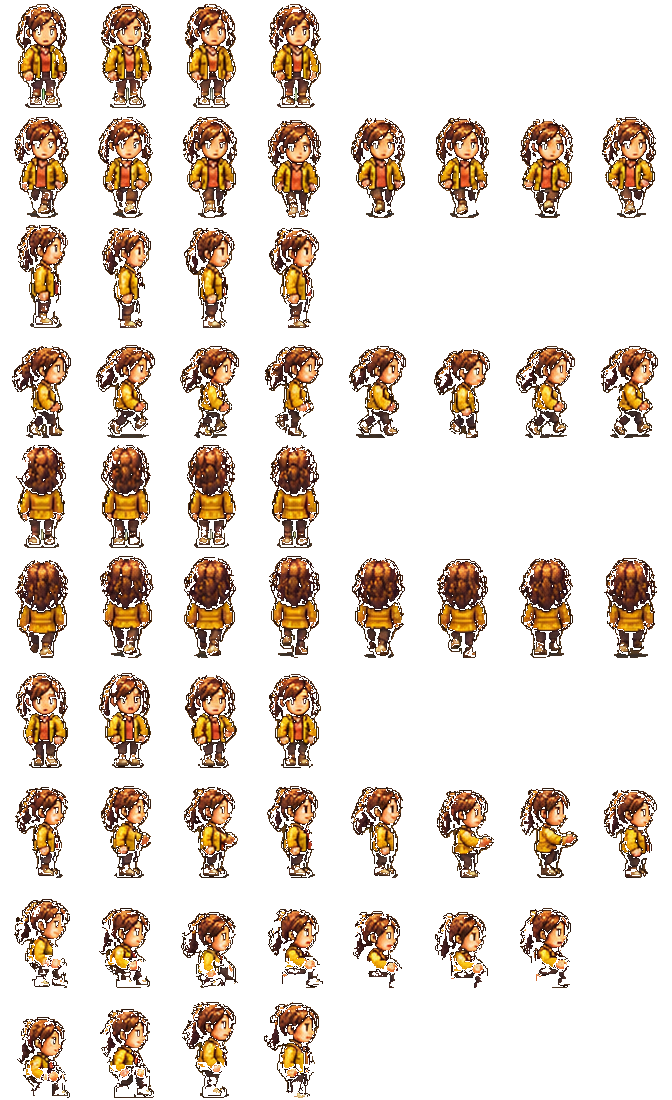
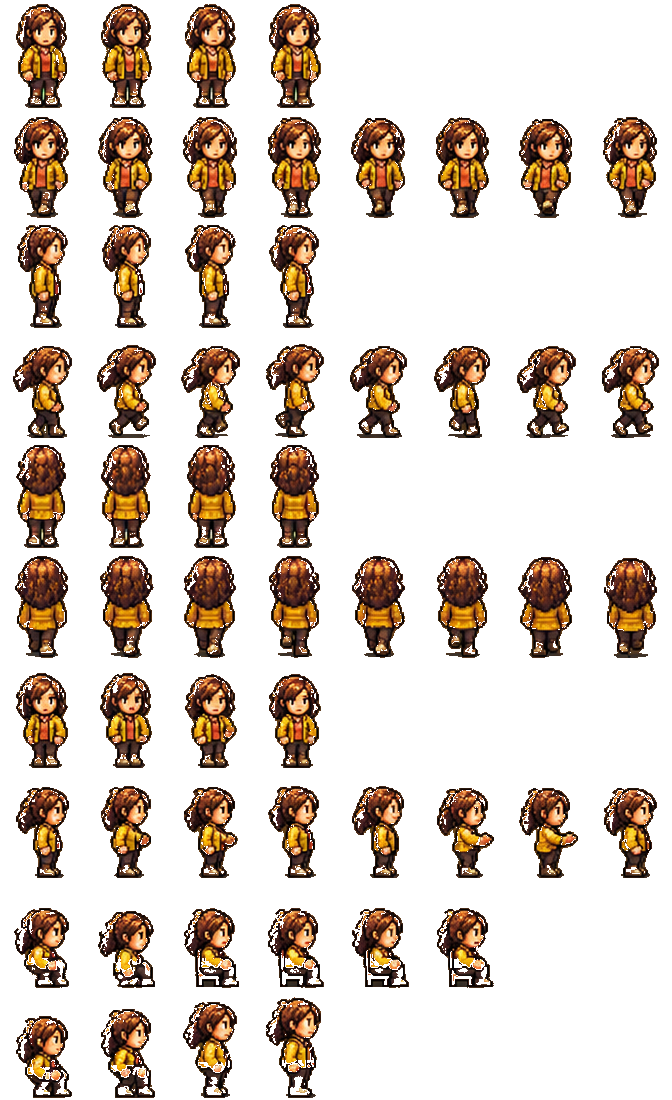
fix(art): V5 NPCs keep their dark outline, hair and trousers (Helena holes and grass show-through)
alpha_of dropped every near-black pixel, punching holes in all six V5 sheets
(worst on Helena). Dark pixels are now removed only when connected to the
crop border (board remains). Sheets rebuilt; the runtime V5 block keeps the
hand-tuned idle/facing edits of 4404a8a and only takes the new frame sizes,
anchors and scales; frame counts never grow (Raul stand 4->3, Celina sit 7->6
because one candidate frame no longer classifies). demo-smoke, browser-smoke,
v5-chromium and playtest-full PASS.

diff --git a/index.html b/index.html
@@ -314,7 +314,7 @@ var SCALE=(()=>{const base=42;let f=1.4;try{const q=+new URLSearchParams(locatio
   creature:{dog:.4,insect:.25,crawler:.4,crow:.3,larva:.25,drone:.55,echo:1.05,humanoid:1.0,bigHumanoid:1.3,mutant:1.6,guardian:1.9,colossus:3.2},
   props:{'bench':.9,'bench-b':.9,'bin':.82,'hydrant':.85,'barrel':.9,'barrel-b':.9,'crate-a':.9,'crate-b':.9},
   furniture:{benchSeat:.28,benchBack:.52,chairSeat:.28,table:.45,counter:.58,door:1.22,bed:1.2}}})();
-/*SCALE:END*//*V5:BEGIN*/var V5={"lia":{"fw":97,"fh":109,"ax":48,"ay":106,"ref_h":95,"face":"right","anims":{"idle:south":{"row":0,"frames":1,"k":1,"src":["1.1"]},"idle:north":{"row":1,"frames":1,"k":1,"src":["3.1"]},"idle:side":{"row":2,"frames":1,"k":1,"src":["2.1"]},"walk:side":{"row":3,"frames":4,"k":1,"src":["2.5","2.6","2.7","2.8"]},"walk:north":{"row":4,"frames":4,"k":1,"src":["3.5","3.6","3.7","3.8"]},"talk:south":{"row":5,"frames":4,"k":1,"src":["5.1","5.2","5.3","5.4"]},"talk:side":{"row":6,"frames":4,"k":1,"src":["6.1","6.2","6.3","6.4"]},"sit":{"row":7,"frames":7,"k":1,"src":["9.2","9.3","9.4","9.5","9.6","9.7","9.8"]},"stand":{"row":8,"frames":4,"k":1,"src":["9.9","9.10","9.11","9.12"]}},"file":"assets/production/characters/v5/lia.png","scale":0.4288421052631579,"faceByAnim":{"sit":"left","stand":"left"}},"raul":{"fw":99,"fh":129,"ax":49,"ay":126,"ref_h":111,"face":"left","anims":{"idle:south":{"row":0,"frames":1,"k":1,"src":["1.1"]},"idle:north":{"row":1,"frames":1,"k":1,"src":["1.5"]},"idle:side":{"row":2,"frames":1,"k":1,"src":["1.9"]},"walk:south":{"row":3,"frames":6,"k":1,"src":["2.1","2.2","2.3","2.4","2.5","2.6"]},"walk:north":{"row":4,"frames":8,"k":1,"src":["3.2","3.3","3.4","3.5","3.8","3.9","3.10","3.11"]},"walk:side":{"row":5,"frames":7,"k":1,"src":["4.1","4.2","4.3","4.4","4.5","4.6","4.7"]},"talk:south":{"row":6,"frames":4,"k":1.099,"src":["5.1","5.2","5.3","5.4"]},"talk:side":{"row":7,"frames":4,"k":1,"src":["5.9","5.10","5.11","5.12"]},"sit":{"row":8,"frames":5,"k":1,"src":["7.2","7.3","7.4","7.5","7.6"]},"stand":{"row":9,"frames":4,"k":1,"src":["7.9","7.10","7.11","7.12"]}},"file":"assets/production/characters/v5/raul.png","scale":0.385945945945946,"faceByAnim":{}},"nora":{"fw":86,"fh":107,"ax":43,"ay":104,"ref_h":87.5,"face":"left","anims":{"idle:south":{"row":0,"frames":1,"k":1,"src":["1.1"]},"idle:side":{"row":1,"frames":1,"k":1,"src":["2.1"]},"idle:north":{"row":2,"frames":1,"k":1,"src":["4.1"]},"walk:south":{"row":3,"frames":8,"k":1,"src":["5.1","5.2","5.3","5.4","5.5","5.6","5.7","5.8"]},"walk:side":{"row":4,"frames":8,"k":1.101,"src":["6.1","6.2","6.3","6.4","6.5","6.6","6.7","6.8"]},"walk:north":{"row":5,"frames":8,"k":1,"src":["8.1","8.2","8.3","8.4","8.5","8.6","8.7","8.8"]},"talk:south":{"row":6,"frames":4,"k":1,"src":["9.1","9.2","9.3","9.4"]},"talk:side":{"row":7,"frames":4,"k":1,"src":["10.1","10.2","10.3","10.4"]},"sit":{"row":8,"frames":5,"k":1,"src":["13.2","13.3","13.4","13.5","13.6"]},"stand":{"row":9,"frames":2,"k":1,"src":["13.7","13.8"]}},"file":"assets/production/characters/v5/nora.png","scale":0.4608,"faceByAnim":{"sit":"right","stand":"right"}},"helena":{"fw":93,"fh":121,"ax":46,"ay":118,"ref_h":106,"face":"right","anims":{"idle:south":{"row":0,"frames":1,"k":1,"src":["1.1"]},"walk:south":{"row":1,"frames":4,"k":1,"src":["1.9","1.10","1.11","1.12"]},"idle:north":{"row":2,"frames":1,"k":1,"src":["2.1"]},"walk:north":{"row":3,"frames":4,"k":1,"src":["2.8","2.9","2.10","2.11"]},"idle:side":{"row":4,"frames":1,"k":1.11,"src":["3.1"]},"walk:side":{"row":5,"frames":8,"k":1.087,"src":["4.5","4.6","4.7","4.8","4.9","4.10","4.11","4.12"]},"talk:south":{"row":6,"frames":4,"k":1,"src":["5.1","5.2","5.3","5.4"]},"talk:side":{"row":7,"frames":4,"k":1,"src":["7.1","7.2","7.3","7.4"]},"sit":{"row":8,"frames":6,"k":1,"src":["9.3","9.4","9.5","9.6","9.7","9.8"]},"stand":{"row":9,"frames":5,"k":1,"src":["9.9","9.10","9.11","9.12","9.13"]}},"file":"assets/production/characters/v5/helena.png","scale":0.3883018867924528,"faceByAnim":{"sit":"right"}},"bento":{"fw":97,"fh":134,"ax":48,"ay":131,"ref_h":111.5,"face":"left","anims":{"idle:south":{"row":0,"frames":1,"k":1,"src":["1.1"]},"walk:south":{"row":1,"frames":4,"k":1.149,"src":["2.1","2.2","2.3","2.4"]},"idle:side":{"row":2,"frames":1,"k":1,"src":["1.5"]},"walk:side":{"row":3,"frames":6,"k":1.297,"src":["3.5","3.6","3.7","3.8","3.9","3.10"]},"idle:north":{"row":4,"frames":1,"k":1,"src":["1.13"]},"walk:north":{"row":5,"frames":6,"k":1.274,"src":["2.16","2.17","2.18","2.19","2.20","2.21"]},"talk:south":{"row":6,"frames":4,"k":1.104,"src":["5.1","5.2","5.3","5.4"]},"work:side":{"row":7,"frames":8,"k":1,"src":["4.5","4.6","4.7","4.8","4.9","4.10","4.11","4.12"]},"sit":{"row":8,"frames":7,"k":1,"src":["6.2","6.3","6.4","6.5","6.6","6.7","6.8"]},"stand":{"row":9,"frames":3,"k":1,"src":["6.11","6.12","6.13"]}},"file":"assets/production/characters/v5/bento.png","scale":0.3540807174887892,"faceByAnim":{"idle:side":"right","work:side":"right"}},"celina":{"fw":84,"fh":110,"ax":42,"ay":107,"ref_h":104,"face":"right","anims":{"idle:south":{"row":0,"frames":1,"k":1,"src":["1.1"]},"walk:south":{"row":1,"frames":8,"k":1,"src":["2.1","2.2","2.3","2.4","2.5","2.6","2.7","2.8"]},"idle:side":{"row":2,"frames":1,"k":1,"src":["1.5"]},"walk:side":{"row":3,"frames":8,"k":1.13,"src":["4.1","4.2","4.3","4.4","4.5","4.6","4.7","4.8"]},"idle:north":{"row":4,"frames":1,"k":1,"src":["1.13"]},"walk:north":{"row":5,"frames":8,"k":1,"src":["5.1","5.2","5.3","5.4","5.5","5.6","5.7","5.8"]},"talk:south":{"row":6,"frames":4,"k":1.101,"src":["6.1","6.2","6.3","6.4"]},"work:side":{"row":7,"frames":8,"k":1.143,"src":["6.5","6.6","6.7","6.8","6.9","6.10","6.11","6.12"]},"sit":{"row":8,"frames":7,"k":1,"src":["10.2","10.3","10.4","10.5","10.6","10.7","10.8"]},"stand":{"row":9,"frames":4,"k":1,"src":["10.9","10.10","10.11","10.12"]}},"file":"assets/production/characters/v5/celina.png","scale":0.38769230769230767,"faceByAnim":{"sit":"right"}}};/*V5:END*//*V4:BEGIN*/var V4={"atlases":["assets/production/v4/atlas-0.png"],"atlasW":[1024],"rects":{"single:inseto_fenda":[0,0,0,81,78],"single:deformado":[0,83,0,77,78],"single:planta_espinhosa":[0,162,0,82,77],"single:mutacao_aquatica":[0,246,0,81,76],"single:cepa_esporal":[0,329,0,81,76],"single:corvo_sombrio":[0,412,0,78,76],"single:sentinela_drone":[0,492,0,77,76],"single:sombra_rasteira":[0,571,0,77,76],"single:espectro_infantil":[0,650,0,77,76],"single:larva_eco":[0,729,0,76,76],"single:eco_corrompido":[0,807,0,75,76],"single:guardiao_bunker":[0,884,0,73,74],"single:anomalia_temporal":[0,0,80,70,74],"single:entidade_luz":[0,72,80,70,74],"single:enxame":[0,144,80,69,74],"single:cao_anomalo":[0,215,80,78,68],"single:colosso_ressonancia_retrato":[0,295,80,70,67],"single:anomalia_esferica_retrato":[0,367,80,73,59],"item:disco_dados":[0,959,0,57,59],"item:cristal_anomalo":[0,442,80,46,59],"single:mutante_floresta_retrato":[0,490,80,68,58],"item:chave_eletronica":[0,560,80,57,58],"item:foto":[0,619,80,53,58],"single:sombra_ressonante_retrato":[0,674,80,71,57],"single:eco_humanoide_retrato":[0,747,80,65,56],"single:vigia_projeto_retrato":[0,814,80,63,56],"item:arco_recurvo":[0,879,80,60,56],"item:chave_mestra":[0,941,80,53,56],"item:faca":[0,0,156,39,56],"item:diario":[0,41,156,49,55],"item:disco_alinhamento":[0,92,156,58,53],"item:rifle":[0,152,156,55,53],"item:placa_simbolica":[0,209,156,53,52],"item:revolver":[0,264,156,49,52],"item:documento":[0,315,156,46,52],"item:estamina":[0,363,156,33,52],"colosso_ressonancia:ataque:4":[0,996,80,26,52],"colosso_ressonancia:preparacao:3":[0,398,156,19,52],"colosso_ressonancia:ataque:3":[0,419,156,56,51],"item:radio":[0,477,156,48,51],"item:pistola":[0,527,156,44,51],"colosso_ressonancia:dano:0":[0,573,156,39,51],"item:pe_de_cabra":[0,614,156,37,51],"item:vida":[0,653,156,37,51],"item:besta":[0,692,156,57,50],"item:lanterna":[0,751,156,55,50],"item:runa":[0,808,156,52,50],"item:espingarda":[0,862,156,45,50],"item:cristal_prismatico":[0,909,156,44,50],"item:antidoto":[0,955,156,32,50],"colosso_ressonancia:dissipacao:4":[0,989,156,30,50],"item:cartao_acesso":[0,0,214,51,49],"item:bastao":[0,53,214,50,49],"item:kit_medico":[0,105,214,48,49],"item:valvula":[0,155,214,48,49],"item:detector_emf":[0,205,214,43,49],"item:chave_colecao":[0,250,214,38,49],"colosso_ressonancia:dissipacao:3":[0,290,214,33,49],"item:soro":[0,325,214,32,49],"item:fragmento_mapa":[0,359,214,55,48],"item:matriz_logica":[0,416,214,47,48],"item:mascara_filtro":[0,465,214,41,48],"item:chave_simples":[0,508,214,51,47],"item:chave_enferrujada":[0,561,214,51,47],"item:lente_optica":[0,614,214,49,47],"item:peca_engrenagem":[0,665,214,58,46],"item:peca":[0,725,214,37,46],"colosso_ressonancia:movimento:0":[0,764,214,41,45],"colosso_ressonancia:idle:1":[0,807,214,26,45],"item:gravador":[0,835,214,57,44],"item:binoculo":[0,894,214,56,44],"colosso_ressonancia:idle:2":[0,952,214,34,44],"colosso_ressonancia:idle:0":[0,0,265,51,43],"item:camera":[0,53,265,51,43],"item:engrenagem":[0,106,265,45,43],"sombra_ressonante:movimento:5":[0,153,265,41,43],"sombra_ressonante:movimento:0":[0,196,265,35,43],"sombra_ressonante:dissipacao:0":[0,988,214,31,43],"colosso_ressonancia:movimento:1":[0,233,265,28,43],"colosso_ressonancia:ataque:0":[0,263,265,28,43],"anomalia_esferica:movimento:5":[0,293,265,24,43],"sombra_ressonante:dano:1":[0,319,265,15,43],"item:mapa":[0,336,265,53,42],"colosso_ressonancia:ataque:1":[0,391,265,52,42],"mutante_floresta:movimento:5":[0,445,265,42,42],"sombra_ressonante:dissipacao:1":[0,489,265,32,42],"colosso_ressonancia:ataque:2":[0,523,265,26,42],"colosso_ressonancia:idle:3":[0,551,265,45,41],"colosso_ressonancia:movimento:3":[0,598,265,35,41],"mutante_floresta:dissipacao:0":[0,635,265,26,41],"colosso_ressonancia:dano:2":[0,663,265,21,41],"item:fita_cassete":[0,686,265,48,40],"anomalia_esferica:ataque:4":[0,736,265,42,40],"vigia_projeto:movimento:5":[0,780,265,40,40],"anomalia_esferica:dissipacao:0":[0,822,265,36,40],"vigia_projeto:dissipacao:1":[0,860,265,34,40],"colosso_ressonancia:preparacao:0":[0,896,265,34,40],"colosso_ressonancia:preparacao:2":[0,932,265,28,40],"colosso_ressonancia:dissipacao:2":[0,962,265,28,40],"vigia_projeto:dano:1":[0,992,265,18,40],"anomalia_esferica:idle:5":[0,0,310,34,39],"eco_humanoide:dissipacao:4":[0,36,310,26,39],"anomalia_esferica:dissipacao:3":[0,64,310,49,38],"mutante_floresta:dissipacao:3":[0,115,310,45,38],"anomalia_esferica:idle:1":[0,162,310,41,38],"anomalia_esferica:idle:0":[0,205,310,36,38],"anomalia_esferica:ataque:0":[0,243,310,36,38],"anomalia_esferica:idle:4":[0,281,310,34,38],"colosso_ressonancia:preparacao:1":[0,317,310,27,38],"eco_humanoide:dissipacao:3":[0,346,310,19,38],"mutante_floresta:ataque:5":[0,367,310,41,37],"anomalia_esferica:ataque:1":[0,410,310,37,37],"colosso_ressonancia:dano:3":[0,449,310,35,37],"eco_humanoide:ataque:4":[0,486,310,34,37],"eco_humanoide:movimento:2":[0,522,310,24,37],"eco_humanoide:movimento:5":[0,548,310,24,37],"eco_humanoide:movimento:0":[0,574,310,23,37],"eco_humanoide:movimento:4":[0,599,310,22,37],"eco_humanoide:idle:3":[0,623,310,21,37],"eco_humanoide:idle:2":[0,646,310,19,37],"eco_humanoide:idle:4":[0,667,310,19,37],"eco_humanoide:idle:5":[0,688,310,19,37],"anomalia_esferica:dissipacao:4":[0,709,310,17,37],"anomalia_esferica:movimento:2":[0,728,310,55,36],"eco_humanoide:ataque:1":[0,785,310,41,36],"anomalia_esferica:ataque:3":[0,828,310,38,36],"colosso_ressonancia:dissipacao:0":[0,868,310,36,36],"eco_humanoide:ataque:0":[0,906,310,32,36],"eco_humanoide:dissipacao:0":[0,940,310,30,36],"anomalia_esferica:idle:2":[0,972,310,26,36],"anomalia_esferica:dissipacao:2":[0,0,351,25,36],"eco_humanoide:movimento:1":[0,27,351,23,36],"eco_humanoide:dano:0":[0,52,351,23,36],"eco_humanoide:movimento:3":[0,1000,310,22,36],"eco_humanoide:idle:0":[0,77,351,20,36],"eco_humanoide:idle:1":[0,99,351,19,36],"colosso_ressonancia:dano:1":[0,120,351,18,36],"item:fusivel":[0,140,351,47,35],"eco_humanoide:ataque:3":[0,189,351,42,35],"eco_humanoide:ataque:2":[0,233,351,40,35],"anomalia_esferica:ataque:2":[0,275,351,34,35],"item:pilhas":[0,311,351,34,35],"eco_humanoide:dissipacao:2":[0,347,351,30,35],"eco_humanoide:dissipacao:1":[0,379,351,29,35],"eco_humanoide:dano:1":[0,410,351,27,35],"eco_humanoide:dano:2":[0,439,351,26,35],"anomalia_esferica:dano:1":[0,467,351,26,35],"mutante_floresta:dissipacao:1":[0,495,351,15,35],"vigia_projeto:dissipacao:4":[0,512,351,30,34],"vigia_projeto:idle:0":[0,544,351,27,34],"vigia_projeto:idle:5":[0,573,351,26,34],"vigia_projeto:idle:2":[0,601,351,25,34],"vigia_projeto:idle:3":[0,628,351,25,34],"vigia_projeto:idle:4":[0,655,351,24,34],"mutante_floresta:idle:0":[0,681,351,33,33],"mutante_floresta:ataque:3":[0,716,351,30,33],"vigia_projeto:movimento:2":[0,748,351,29,33],"sombra_ressonante:dano:3":[0,779,351,28,33],"eco_humanoide:ataque:5":[0,809,351,27,33],"sombra_ressonante:idle:2":[0,838,351,27,33],"vigia_projeto:dissipacao:3":[0,867,351,27,33],"anomalia_esferica:dano:2":[0,896,351,27,33],"sombra_ressonante:idle:5":[0,925,351,26,33],"vigia_projeto:idle:1":[0,953,351,26,33],"sombra_ressonante:idle:3":[0,981,351,25,33],"sombra_ressonante:idle:4":[0,0,389,25,33],"vigia_projeto:movimento:4":[0,27,389,25,33],"sombra_ressonante:ataque:1":[0,54,389,43,32],"vigia_projeto:ataque:2":[0,99,389,38,32],"anomalia_esferica:movimento:0":[0,139,389,37,32],"vigia_projeto:movimento:0":[0,178,389,33,32],"vigia_projeto:dissipacao:0":[0,213,389,33,32],"anomalia_esferica:dano:0":[0,248,389,32,32],"vigia_projeto:movimento:1":[0,282,389,31,32],"anomalia_esferica:movimento:3":[0,315,389,31,32],"mutante_floresta:idle:1":[0,348,389,30,32],"sombra_ressonante:idle:0":[0,380,389,29,32],"sombra_ressonante:idle:1":[0,411,389,28,32],"mutante_floresta:idle:5":[0,441,389,25,32],"mutante_floresta:movimento:3":[0,468,389,23,32],"sombra_ressonante:ataque:4":[0,493,389,41,31],"mutante_floresta:ataque:4":[0,536,389,41,31],"sombra_ressonante:ataque:0":[0,579,389,39,31],"vigia_projeto:ataque:4":[0,620,389,39,31],"vigia_projeto:ataque:0":[0,661,389,36,31],"vigia_projeto:ataque:1":[0,699,389,33,31],"vigia_projeto:dano:2":[0,734,389,33,31],"mutante_floresta:ataque:2":[0,769,389,33,31],"sombra_ressonante:movimento:2":[0,804,389,31,31],"sombra_ressonante:ataque:2":[0,837,389,31,31],"mutante_floresta:dano:0":[0,870,389,31,31],"vigia_projeto:dano:0":[0,903,389,30,31],"mutante_floresta:idle:4":[0,935,389,30,31],"sombra_ressonante:dano:2":[0,967,389,29,31],"mutante_floresta:idle:3":[0,0,424,28,31],"mutante_floresta:movimento:4":[0,30,424,26,31],"sombra_ressonante:movimento:3":[0,58,424,25,31],"vigia_projeto:ataque:3":[0,998,389,21,31],"colosso_ressonancia:movimento:2":[0,1008,351,13,31],"sombra_ressonante:ataque:5":[0,85,424,42,30],"sombra_ressonante:movimento:1":[0,129,424,37,30],"mutante_floresta:movimento:0":[0,168,424,36,30],"mutante_floresta:movimento:1":[0,206,424,36,30],"sombra_ressonante:dano:0":[0,244,424,34,30],"mutante_floresta:ataque:0":[0,280,424,31,30],"mutante_floresta:idle:2":[0,313,424,30,30],"vigia_projeto:dano:3":[0,345,424,29,30],"mutante_floresta:dano:1":[0,376,424,19,30],"mutante_floresta:ataque:1":[0,397,424,33,29],"mutante_floresta:dano:2":[0,432,424,32,29],"sombra_ressonante:dissipacao:4":[0,466,424,13,29],"sombra_ressonante:dissipacao:2":[0,481,424,34,28],"mutante_floresta:dano:3":[0,517,424,33,28],"mutante_floresta:dissipacao:2":[0,552,424,31,28],"anomalia_esferica:movimento:4":[0,585,424,22,27],"mutante_floresta:dissipacao:4":[0,609,424,13,27],"colosso_ressonancia:dissipacao:1":[0,1012,265,7,26],"anomalia_esferica:idle:3":[0,624,424,8,25],"anomalia_esferica:movimento:1":[0,634,424,8,24],"mutante_floresta:movimento:2":[0,644,424,13,21],"vigia_projeto:ataque:5":[0,659,424,33,20],"sombra_ressonante:dissipacao:3":[0,694,424,26,20],"sombra_ressonante:movimento:4":[0,722,424,18,20],"sombra_ressonante:ataque:3":[0,742,424,18,18],"anomalia_esferica:ataque:5":[0,762,424,23,17],"vigia_projeto:movimento:3":[0,787,424,14,14],"anomalia_esferica:dissipacao:1":[0,1018,0,4,13],"vigia_projeto:dissipacao:2":[0,803,424,13,12]},"creatures":{"eco_humanoide":{"idle":[[0,77,351,20,36],[0,99,351,19,36],[0,646,310,19,37],[0,623,310,21,37],[0,667,310,19,37],[0,688,310,19,37]],"movimento":[[0,574,310,23,37],[0,27,351,23,36],[0,522,310,24,37],[0,1000,310,22,36],[0,599,310,22,37],[0,548,310,24,37]],"ataque":[[0,906,310,32,36],[0,785,310,41,36],[0,233,351,40,35],[0,189,351,42,35],[0,486,310,34,37],[0,809,351,27,33]],"dano":[[0,52,351,23,36],[0,410,351,27,35],[0,439,351,26,35]],"dissipacao":[[0,940,310,30,36],[0,379,351,29,35],[0,347,351,30,35],[0,346,310,19,38],[0,36,310,26,39]]},"anomalia_esferica":{"idle":[[0,205,310,36,38],[0,162,310,41,38],[0,972,310,26,36],[0,624,424,8,25],[0,281,310,34,38],[0,0,310,34,39]],"movimento":[[0,139,389,37,32],[0,634,424,8,24],[0,728,310,55,36],[0,315,389,31,32],[0,585,424,22,27],[0,293,265,24,43]],"ataque":[[0,243,310,36,38],[0,410,310,37,37],[0,275,351,34,35],[0,828,310,38,36],[0,736,265,42,40],[0,762,424,23,17]],"dano":[[0,248,389,32,32],[0,467,351,26,35],[0,896,351,27,33]],"dissipacao":[[0,822,265,36,40],[0,1018,0,4,13],[0,0,351,25,36],[0,64,310,49,38],[0,709,310,17,37]]}},"items":{"revolver":[0,264,156,49,52],"pistola":[0,527,156,44,51],"espingarda":[0,862,156,45,50],"rifle":[0,152,156,55,53],"arco_recurvo":[0,879,80,60,56],"besta":[0,692,156,57,50],"faca":[0,0,156,39,56],"bastao":[0,53,214,50,49],"pe_de_cabra":[0,614,156,37,51],"lanterna":[0,751,156,55,50],"radio":[0,477,156,48,51],"detector_emf":[0,205,214,43,49],"camera":[0,53,265,51,43],"gravador":[0,835,214,57,44],"binoculo":[0,894,214,56,44],"kit_medico":[0,105,214,48,49],"mascara_filtro":[0,465,214,41,48],"vida":[0,653,156,37,51],"estamina":[0,363,156,33,52],"antidoto":[0,955,156,32,50],"soro":[0,325,214,32,49],"pilhas":[0,311,351,34,35],"fita_cassete":[0,686,265,48,40],"foto":[0,619,80,53,58],"documento":[0,315,156,46,52],"diario":[0,41,156,49,55],"mapa":[0,336,265,53,42],"chave_colecao":[0,250,214,38,49],"peca":[0,725,214,37,46],"engrenagem":[0,106,265,45,43],"cristal_anomalo":[0,442,80,46,59],"chave_simples":[0,508,214,51,47],"chave_enferrujada":[0,561,214,51,47],"chave_mestra":[0,941,80,53,56],"chave_eletronica":[0,560,80,57,58],"cartao_acesso":[0,0,214,51,49],"fusivel":[0,140,351,47,35],"valvula":[0,155,214,48,49],"disco_dados":[0,959,0,57,59],"placa_simbolica":[0,209,156,53,52],"fragmento_mapa":[0,359,214,55,48],"peca_engrenagem":[0,665,214,58,46],"runa":[0,808,156,52,50],"disco_alinhamento":[0,92,156,58,53],"lente_optica":[0,614,214,49,47],"cristal_prismatico":[0,909,156,44,50],"matriz_logica":[0,416,214,47,48]},"singles":{"inseto_fenda":[0,0,0,81,78],"deformado":[0,83,0,77,78],"planta_espinhosa":[0,162,0,82,77],"mutacao_aquatica":[0,246,0,81,76],"cepa_esporal":[0,329,0,81,76],"corvo_sombrio":[0,412,0,78,76],"sentinela_drone":[0,492,0,77,76],"sombra_rasteira":[0,571,0,77,76],"espectro_infantil":[0,650,0,77,76],"larva_eco":[0,729,0,76,76],"eco_corrompido":[0,807,0,75,76],"guardiao_bunker":[0,884,0,73,74],"anomalia_temporal":[0,0,80,70,74],"entidade_luz":[0,72,80,70,74],"enxame":[0,144,80,69,74],"cao_anomalo":[0,215,80,78,68],"colosso_ressonancia_retrato":[0,295,80,70,67],"anomalia_esferica_retrato":[0,367,80,73,59],"mutante_floresta_retrato":[0,490,80,68,58],"sombra_ressonante_retrato":[0,674,80,71,57],"eco_humanoide_retrato":[0,747,80,65,56],"vigia_projeto_retrato":[0,814,80,63,56]},"panels":{"engrenagens_integradas":{"file":"assets/production/v4/puzzle-engrenagens_integradas.png","w":159,"h":143},"alinhamento_lentes":{"file":"assets/production/v4/puzzle-alinhamento_lentes.png","w":147,"h":143},"discos_rotativos":{"file":"assets/production/v4/puzzle-discos_rotativos.png","w":144,"h":143},"painel_eletrico":{"file":"assets/production/v4/puzzle-painel_eletrico.png","w":151,"h":143},"mecanismo_alavancas":{"file":"assets/production/v4/puzzle-mecanismo_alavancas.png","w":146,"h":143},"relogio":{"file":"assets/production/v4/puzzle-relogio.png","w":144,"h":143},"mapa_fragmental":{"file":"assets/production/v4/puzzle-mapa_fragmental.png","w":141,"h":143},"cofre_mecanico":{"file":"assets/production/v4/puzzle-cofre_mecanico.png","w":143,"h":143},"painel_sequencia":{"file":"assets/production/v4/puzzle-painel_sequencia.png","w":140,"h":143},"runas":{"file":"assets/production/v4/puzzle-runas.png","w":132,"h":143}}};/*V4:END*/
+/*SCALE:END*//*V5:BEGIN*/var V5={"lia":{"fw":100,"fh":112,"ax":50,"ay":109,"ref_h":97.0,"face":"right","anims":{"idle:south":{"row":0,"frames":1,"k":1,"src":["1.1"]},"idle:north":{"row":1,"frames":1,"k":1,"src":["3.1"]},"idle:side":{"row":2,"frames":1,"k":1,"src":["2.1"]},"walk:side":{"row":3,"frames":4,"k":1,"src":["2.5","2.6","2.7","2.8"]},"walk:north":{"row":4,"frames":4,"k":1,"src":["3.5","3.6","3.7","3.8"]},"talk:south":{"row":5,"frames":4,"k":1,"src":["5.1","5.2","5.3","5.4"]},"talk:side":{"row":6,"frames":4,"k":1,"src":["6.1","6.2","6.3","6.4"]},"sit":{"row":7,"frames":7,"k":1,"src":["9.2","9.3","9.4","9.5","9.6","9.7","9.8"]},"stand":{"row":8,"frames":4,"k":1,"src":["9.9","9.10","9.11","9.12"]}},"file":"assets/production/characters/v5/lia.png","scale":0.42,"faceByAnim":{"sit":"left","stand":"left"}},"raul":{"fw":102,"fh":123,"ax":51,"ay":120,"ref_h":113.0,"face":"left","anims":{"idle:south":{"row":0,"frames":1,"k":1,"src":["1.1"]},"idle:north":{"row":1,"frames":1,"k":1,"src":["1.5"]},"idle:side":{"row":2,"frames":1,"k":1,"src":["1.9"]},"walk:south":{"row":3,"frames":6,"k":1,"src":["2.1","2.2","2.3","2.4","2.5","2.6"]},"walk:north":{"row":4,"frames":8,"k":1,"src":["3.2","3.3","3.4","3.5","3.8","3.9","3.10","3.11"]},"walk:side":{"row":5,"frames":7,"k":1,"src":["4.1","4.2","4.3","4.4","4.5","4.6","4.7"]},"talk:south":{"row":6,"frames":4,"k":1.099,"src":["5.1","5.2","5.3","5.4"]},"talk:side":{"row":7,"frames":4,"k":1,"src":["5.9","5.10","5.11","5.12"]},"sit":{"row":8,"frames":5,"k":1,"src":["7.2","7.3","7.4","7.5","7.6"]},"stand":{"row":9,"frames":3,"k":1,"src":["7.9","7.10","7.11"]}},"file":"assets/production/characters/v5/raul.png","scale":0.3865,"faceByAnim":{}},"nora":{"fw":87,"fh":109,"ax":43,"ay":106,"ref_h":88.0,"face":"left","anims":{"idle:south":{"row":0,"frames":1,"k":1,"src":["1.1"]},"idle:side":{"row":1,"frames":1,"k":1,"src":["2.1"]},"idle:north":{"row":2,"frames":1,"k":1,"src":["4.1"]},"walk:south":{"row":3,"frames":8,"k":1,"src":["5.1","5.2","5.3","5.4","5.5","5.6","5.7","5.8"]},"walk:side":{"row":4,"frames":8,"k":1.101,"src":["6.1","6.2","6.3","6.4","6.5","6.6","6.7","6.8"]},"walk:north":{"row":5,"frames":8,"k":1,"src":["8.1","8.2","8.3","8.4","8.5","8.6","8.7","8.8"]},"talk:south":{"row":6,"frames":4,"k":1,"src":["9.1","9.2","9.3","9.4"]},"talk:side":{"row":7,"frames":4,"k":1,"src":["10.1","10.2","10.3","10.4"]},"sit":{"row":8,"frames":5,"k":1,"src":["13.2","13.3","13.4","13.5","13.6"]},"stand":{"row":9,"frames":2,"k":1,"src":["13.7","13.8"]}},"file":"assets/production/characters/v5/nora.png","scale":0.4534,"faceByAnim":{"sit":"right","stand":"right"}},"helena":{"fw":95,"fh":122,"ax":47,"ay":119,"ref_h":106.5,"face":"right","anims":{"idle:south":{"row":0,"frames":1,"k":1,"src":["1.1"]},"walk:south":{"row":1,"frames":4,"k":1,"src":["1.9","1.10","1.11","1.12"]},"idle:north":{"row":2,"frames":1,"k":1,"src":["2.1"]},"walk:north":{"row":3,"frames":4,"k":1,"src":["2.8","2.9","2.10","2.11"]},"idle:side":{"row":4,"frames":1,"k":1.11,"src":["3.1"]},"walk:side":{"row":5,"frames":8,"k":1.087,"src":["4.5","4.6","4.7","4.8","4.9","4.10","4.11","4.12"]},"talk:south":{"row":6,"frames":4,"k":1,"src":["5.1","5.2","5.3","5.4"]},"talk:side":{"row":7,"frames":4,"k":1,"src":["7.1","7.2","7.3","7.4"]},"sit":{"row":8,"frames":6,"k":1,"src":["9.3","9.4","9.5","9.6","9.7","9.8"]},"stand":{"row":9,"frames":5,"k":1,"src":["9.9","9.10","9.11","9.12","9.13"]}},"file":"assets/production/characters/v5/helena.png","scale":0.3786,"faceByAnim":{"sit":"right"}},"bento":{"fw":104,"fh":136,"ax":52,"ay":133,"ref_h":118.0,"face":"left","anims":{"idle:south":{"row":0,"frames":1,"k":1,"src":["1.1"]},"walk:south":{"row":1,"frames":4,"k":1.149,"src":["2.1","2.2","2.3","2.4"]},"idle:side":{"row":2,"frames":1,"k":1,"src":["1.5"]},"walk:side":{"row":3,"frames":6,"k":1.297,"src":["3.5","3.6","3.7","3.8","3.9","3.10"]},"idle:north":{"row":4,"frames":1,"k":1,"src":["1.13"]},"walk:north":{"row":5,"frames":6,"k":1.274,"src":["2.16","2.17","2.18","2.19","2.20","2.21"]},"talk:south":{"row":6,"frames":4,"k":1.104,"src":["5.1","5.2","5.3","5.4"]},"work:side":{"row":7,"frames":8,"k":1,"src":["4.5","4.6","4.7","4.8","4.9","4.10","4.11","4.12"]},"sit":{"row":8,"frames":7,"k":1,"src":["6.2","6.3","6.4","6.5","6.6","6.7","6.8"]},"stand":{"row":9,"frames":3,"k":1,"src":["6.11","6.12","6.13"]}},"file":"assets/production/characters/v5/bento.png","scale":0.3346,"faceByAnim":{"idle:side":"right","work:side":"right"}},"celina":{"fw":84,"fh":110,"ax":42,"ay":107,"ref_h":104.0,"face":"right","anims":{"idle:south":{"row":0,"frames":1,"k":1,"src":["1.1"]},"walk:south":{"row":1,"frames":8,"k":1,"src":["2.1","2.2","2.3","2.4","2.5","2.6","2.7","2.8"]},"idle:side":{"row":2,"frames":1,"k":1,"src":["1.5"]},"walk:side":{"row":3,"frames":8,"k":1.13,"src":["4.1","4.2","4.3","4.4","4.5","4.6","4.7","4.8"]},"idle:north":{"row":4,"frames":1,"k":1,"src":["1.13"]},"walk:north":{"row":5,"frames":8,"k":1,"src":["5.1","5.2","5.3","5.4","5.5","5.6","5.7","5.8"]},"talk:south":{"row":6,"frames":4,"k":1.101,"src":["6.1","6.2","6.3","6.4"]},"work:side":{"row":7,"frames":8,"k":1.143,"src":["6.5","6.6","6.7","6.8","6.9","6.10","6.11","6.12"]},"sit":{"row":8,"frames":6,"k":1,"src":["10.3","10.4","10.5","10.6","10.7","10.8"]},"stand":{"row":9,"frames":4,"k":1,"src":["10.9","10.10","10.11","10.12"]}},"file":"assets/production/characters/v5/celina.png","scale":0.3837,"faceByAnim":{"sit":"right"}}};/*V5:END*//*V4:BEGIN*/var V4={"atlases":["assets/production/v4/atlas-0.png"],"atlasW":[1024],"rects":{"single:inseto_fenda":[0,0,0,81,78],"single:deformado":[0,83,0,77,78],"single:planta_espinhosa":[0,162,0,82,77],"single:mutacao_aquatica":[0,246,0,81,76],"single:cepa_esporal":[0,329,0,81,76],"single:corvo_sombrio":[0,412,0,78,76],"single:sentinela_drone":[0,492,0,77,76],"single:sombra_rasteira":[0,571,0,77,76],"single:espectro_infantil":[0,650,0,77,76],"single:larva_eco":[0,729,0,76,76],"single:eco_corrompido":[0,807,0,75,76],"single:guardiao_bunker":[0,884,0,73,74],"single:anomalia_temporal":[0,0,80,70,74],"single:entidade_luz":[0,72,80,70,74],"single:enxame":[0,144,80,69,74],"single:cao_anomalo":[0,215,80,78,68],"single:colosso_ressonancia_retrato":[0,295,80,70,67],"single:anomalia_esferica_retrato":[0,367,80,73,59],"item:disco_dados":[0,959,0,57,59],"item:cristal_anomalo":[0,442,80,46,59],"single:mutante_floresta_retrato":[0,490,80,68,58],"item:chave_eletronica":[0,560,80,57,58],"item:foto":[0,619,80,53,58],"single:sombra_ressonante_retrato":[0,674,80,71,57],"single:eco_humanoide_retrato":[0,747,80,65,56],"single:vigia_projeto_retrato":[0,814,80,63,56],"item:arco_recurvo":[0,879,80,60,56],"item:chave_mestra":[0,941,80,53,56],"item:faca":[0,0,156,39,56],"item:diario":[0,41,156,49,55],"item:disco_alinhamento":[0,92,156,58,53],"item:rifle":[0,152,156,55,53],"item:placa_simbolica":[0,209,156,53,52],"item:revolver":[0,264,156,49,52],"item:documento":[0,315,156,46,52],"item:estamina":[0,363,156,33,52],"colosso_ressonancia:ataque:4":[0,996,80,26,52],"colosso_ressonancia:preparacao:3":[0,398,156,19,52],"colosso_ressonancia:ataque:3":[0,419,156,56,51],"item:radio":[0,477,156,48,51],"item:pistola":[0,527,156,44,51],"colosso_ressonancia:dano:0":[0,573,156,39,51],"item:pe_de_cabra":[0,614,156,37,51],"item:vida":[0,653,156,37,51],"item:besta":[0,692,156,57,50],"item:lanterna":[0,751,156,55,50],"item:runa":[0,808,156,52,50],"item:espingarda":[0,862,156,45,50],"item:cristal_prismatico":[0,909,156,44,50],"item:antidoto":[0,955,156,32,50],"colosso_ressonancia:dissipacao:4":[0,989,156,30,50],"item:cartao_acesso":[0,0,214,51,49],"item:bastao":[0,53,214,50,49],"item:kit_medico":[0,105,214,48,49],"item:valvula":[0,155,214,48,49],"item:detector_emf":[0,205,214,43,49],"item:chave_colecao":[0,250,214,38,49],"colosso_ressonancia:dissipacao:3":[0,290,214,33,49],"item:soro":[0,325,214,32,49],"item:fragmento_mapa":[0,359,214,55,48],"item:matriz_logica":[0,416,214,47,48],"item:mascara_filtro":[0,465,214,41,48],"item:chave_simples":[0,508,214,51,47],"item:chave_enferrujada":[0,561,214,51,47],"item:lente_optica":[0,614,214,49,47],"item:peca_engrenagem":[0,665,214,58,46],"item:peca":[0,725,214,37,46],"colosso_ressonancia:movimento:0":[0,764,214,41,45],"colosso_ressonancia:idle:1":[0,807,214,26,45],"item:gravador":[0,835,214,57,44],"item:binoculo":[0,894,214,56,44],"colosso_ressonancia:idle:2":[0,952,214,34,44],"colosso_ressonancia:idle:0":[0,0,265,51,43],"item:camera":[0,53,265,51,43],"item:engrenagem":[0,106,265,45,43],"sombra_ressonante:movimento:5":[0,153,265,41,43],"sombra_ressonante:movimento:0":[0,196,265,35,43],"sombra_ressonante:dissipacao:0":[0,988,214,31,43],"colosso_ressonancia:movimento:1":[0,233,265,28,43],"colosso_ressonancia:ataque:0":[0,263,265,28,43],"anomalia_esferica:movimento:5":[0,293,265,24,43],"sombra_ressonante:dano:1":[0,319,265,15,43],"item:mapa":[0,336,265,53,42],"colosso_ressonancia:ataque:1":[0,391,265,52,42],"mutante_floresta:movimento:5":[0,445,265,42,42],"sombra_ressonante:dissipacao:1":[0,489,265,32,42],"colosso_ressonancia:ataque:2":[0,523,265,26,42],"colosso_ressonancia:idle:3":[0,551,265,45,41],"colosso_ressonancia:movimento:3":[0,598,265,35,41],"mutante_floresta:dissipacao:0":[0,635,265,26,41],"colosso_ressonancia:dano:2":[0,663,265,21,41],"item:fita_cassete":[0,686,265,48,40],"anomalia_esferica:ataque:4":[0,736,265,42,40],"vigia_projeto:movimento:5":[0,780,265,40,40],"anomalia_esferica:dissipacao:0":[0,822,265,36,40],"vigia_projeto:dissipacao:1":[0,860,265,34,40],"colosso_ressonancia:preparacao:0":[0,896,265,34,40],"colosso_ressonancia:preparacao:2":[0,932,265,28,40],"colosso_ressonancia:dissipacao:2":[0,962,265,28,40],"vigia_projeto:dano:1":[0,992,265,18,40],"anomalia_esferica:idle:5":[0,0,310,34,39],"eco_humanoide:dissipacao:4":[0,36,310,26,39],"anomalia_esferica:dissipacao:3":[0,64,310,49,38],"mutante_floresta:dissipacao:3":[0,115,310,45,38],"anomalia_esferica:idle:1":[0,162,310,41,38],"anomalia_esferica:idle:0":[0,205,310,36,38],"anomalia_esferica:ataque:0":[0,243,310,36,38],"anomalia_esferica:idle:4":[0,281,310,34,38],"colosso_ressonancia:preparacao:1":[0,317,310,27,38],"eco_humanoide:dissipacao:3":[0,346,310,19,38],"mutante_floresta:ataque:5":[0,367,310,41,37],"anomalia_esferica:ataque:1":[0,410,310,37,37],"colosso_ressonancia:dano:3":[0,449,310,35,37],"eco_humanoide:ataque:4":[0,486,310,34,37],"eco_humanoide:movimento:2":[0,522,310,24,37],"eco_humanoide:movimento:5":[0,548,310,24,37],"eco_humanoide:movimento:0":[0,574,310,23,37],"eco_humanoide:movimento:4":[0,599,310,22,37],"eco_humanoide:idle:3":[0,623,310,21,37],"eco_humanoide:idle:2":[0,646,310,19,37],"eco_humanoide:idle:4":[0,667,310,19,37],"eco_humanoide:idle:5":[0,688,310,19,37],"anomalia_esferica:dissipacao:4":[0,709,310,17,37],"anomalia_esferica:movimento:2":[0,728,310,55,36],"eco_humanoide:ataque:1":[0,785,310,41,36],"anomalia_esferica:ataque:3":[0,828,310,38,36],"colosso_ressonancia:dissipacao:0":[0,868,310,36,36],"eco_humanoide:ataque:0":[0,906,310,32,36],"eco_humanoide:dissipacao:0":[0,940,310,30,36],"anomalia_esferica:idle:2":[0,972,310,26,36],"anomalia_esferica:dissipacao:2":[0,0,351,25,36],"eco_humanoide:movimento:1":[0,27,351,23,36],"eco_humanoide:dano:0":[0,52,351,23,36],"eco_humanoide:movimento:3":[0,1000,310,22,36],"eco_humanoide:idle:0":[0,77,351,20,36],"eco_humanoide:idle:1":[0,99,351,19,36],"colosso_ressonancia:dano:1":[0,120,351,18,36],"item:fusivel":[0,140,351,47,35],"eco_humanoide:ataque:3":[0,189,351,42,35],"eco_humanoide:ataque:2":[0,233,351,40,35],"anomalia_esferica:ataque:2":[0,275,351,34,35],"item:pilhas":[0,311,351,34,35],"eco_humanoide:dissipacao:2":[0,347,351,30,35],"eco_humanoide:dissipacao:1":[0,379,351,29,35],"eco_humanoide:dano:1":[0,410,351,27,35],"eco_humanoide:dano:2":[0,439,351,26,35],"anomalia_esferica:dano:1":[0,467,351,26,35],"mutante_floresta:dissipacao:1":[0,495,351,15,35],"vigia_projeto:dissipacao:4":[0,512,351,30,34],"vigia_projeto:idle:0":[0,544,351,27,34],"vigia_projeto:idle:5":[0,573,351,26,34],"vigia_projeto:idle:2":[0,601,351,25,34],"vigia_projeto:idle:3":[0,628,351,25,34],"vigia_projeto:idle:4":[0,655,351,24,34],"mutante_floresta:idle:0":[0,681,351,33,33],"mutante_floresta:ataque:3":[0,716,351,30,33],"vigia_projeto:movimento:2":[0,748,351,29,33],"sombra_ressonante:dano:3":[0,779,351,28,33],"eco_humanoide:ataque:5":[0,809,351,27,33],"sombra_ressonante:idle:2":[0,838,351,27,33],"vigia_projeto:dissipacao:3":[0,867,351,27,33],"anomalia_esferica:dano:2":[0,896,351,27,33],"sombra_ressonante:idle:5":[0,925,351,26,33],"vigia_projeto:idle:1":[0,953,351,26,33],"sombra_ressonante:idle:3":[0,981,351,25,33],"sombra_ressonante:idle:4":[0,0,389,25,33],"vigia_projeto:movimento:4":[0,27,389,25,33],"sombra_ressonante:ataque:1":[0,54,389,43,32],"vigia_projeto:ataque:2":[0,99,389,38,32],"anomalia_esferica:movimento:0":[0,139,389,37,32],"vigia_projeto:movimento:0":[0,178,389,33,32],"vigia_projeto:dissipacao:0":[0,213,389,33,32],"anomalia_esferica:dano:0":[0,248,389,32,32],"vigia_projeto:movimento:1":[0,282,389,31,32],"anomalia_esferica:movimento:3":[0,315,389,31,32],"mutante_floresta:idle:1":[0,348,389,30,32],"sombra_ressonante:idle:0":[0,380,389,29,32],"sombra_ressonante:idle:1":[0,411,389,28,32],"mutante_floresta:idle:5":[0,441,389,25,32],"mutante_floresta:movimento:3":[0,468,389,23,32],"sombra_ressonante:ataque:4":[0,493,389,41,31],"mutante_floresta:ataque:4":[0,536,389,41,31],"sombra_ressonante:ataque:0":[0,579,389,39,31],"vigia_projeto:ataque:4":[0,620,389,39,31],"vigia_projeto:ataque:0":[0,661,389,36,31],"vigia_projeto:ataque:1":[0,699,389,33,31],"vigia_projeto:dano:2":[0,734,389,33,31],"mutante_floresta:ataque:2":[0,769,389,33,31],"sombra_ressonante:movimento:2":[0,804,389,31,31],"sombra_ressonante:ataque:2":[0,837,389,31,31],"mutante_floresta:dano:0":[0,870,389,31,31],"vigia_projeto:dano:0":[0,903,389,30,31],"mutante_floresta:idle:4":[0,935,389,30,31],"sombra_ressonante:dano:2":[0,967,389,29,31],"mutante_floresta:idle:3":[0,0,424,28,31],"mutante_floresta:movimento:4":[0,30,424,26,31],"sombra_ressonante:movimento:3":[0,58,424,25,31],"vigia_projeto:ataque:3":[0,998,389,21,31],"colosso_ressonancia:movimento:2":[0,1008,351,13,31],"sombra_ressonante:ataque:5":[0,85,424,42,30],"sombra_ressonante:movimento:1":[0,129,424,37,30],"mutante_floresta:movimento:0":[0,168,424,36,30],"mutante_floresta:movimento:1":[0,206,424,36,30],"sombra_ressonante:dano:0":[0,244,424,34,30],"mutante_floresta:ataque:0":[0,280,424,31,30],"mutante_floresta:idle:2":[0,313,424,30,30],"vigia_projeto:dano:3":[0,345,424,29,30],"mutante_floresta:dano:1":[0,376,424,19,30],"mutante_floresta:ataque:1":[0,397,424,33,29],"mutante_floresta:dano:2":[0,432,424,32,29],"sombra_ressonante:dissipacao:4":[0,466,424,13,29],"sombra_ressonante:dissipacao:2":[0,481,424,34,28],"mutante_floresta:dano:3":[0,517,424,33,28],"mutante_floresta:dissipacao:2":[0,552,424,31,28],"anomalia_esferica:movimento:4":[0,585,424,22,27],"mutante_floresta:dissipacao:4":[0,609,424,13,27],"colosso_ressonancia:dissipacao:1":[0,1012,265,7,26],"anomalia_esferica:idle:3":[0,624,424,8,25],"anomalia_esferica:movimento:1":[0,634,424,8,24],"mutante_floresta:movimento:2":[0,644,424,13,21],"vigia_projeto:ataque:5":[0,659,424,33,20],"sombra_ressonante:dissipacao:3":[0,694,424,26,20],"sombra_ressonante:movimento:4":[0,722,424,18,20],"sombra_ressonante:ataque:3":[0,742,424,18,18],"anomalia_esferica:ataque:5":[0,762,424,23,17],"vigia_projeto:movimento:3":[0,787,424,14,14],"anomalia_esferica:dissipacao:1":[0,1018,0,4,13],"vigia_projeto:dissipacao:2":[0,803,424,13,12]},"creatures":{"eco_humanoide":{"idle":[[0,77,351,20,36],[0,99,351,19,36],[0,646,310,19,37],[0,623,310,21,37],[0,667,310,19,37],[0,688,310,19,37]],"movimento":[[0,574,310,23,37],[0,27,351,23,36],[0,522,310,24,37],[0,1000,310,22,36],[0,599,310,22,37],[0,548,310,24,37]],"ataque":[[0,906,310,32,36],[0,785,310,41,36],[0,233,351,40,35],[0,189,351,42,35],[0,486,310,34,37],[0,809,351,27,33]],"dano":[[0,52,351,23,36],[0,410,351,27,35],[0,439,351,26,35]],"dissipacao":[[0,940,310,30,36],[0,379,351,29,35],[0,347,351,30,35],[0,346,310,19,38],[0,36,310,26,39]]},"anomalia_esferica":{"idle":[[0,205,310,36,38],[0,162,310,41,38],[0,972,310,26,36],[0,624,424,8,25],[0,281,310,34,38],[0,0,310,34,39]],"movimento":[[0,139,389,37,32],[0,634,424,8,24],[0,728,310,55,36],[0,315,389,31,32],[0,585,424,22,27],[0,293,265,24,43]],"ataque":[[0,243,310,36,38],[0,410,310,37,37],[0,275,351,34,35],[0,828,310,38,36],[0,736,265,42,40],[0,762,424,23,17]],"dano":[[0,248,389,32,32],[0,467,351,26,35],[0,896,351,27,33]],"dissipacao":[[0,822,265,36,40],[0,1018,0,4,13],[0,0,351,25,36],[0,64,310,49,38],[0,709,310,17,37]]}},"items":{"revolver":[0,264,156,49,52],"pistola":[0,527,156,44,51],"espingarda":[0,862,156,45,50],"rifle":[0,152,156,55,53],"arco_recurvo":[0,879,80,60,56],"besta":[0,692,156,57,50],"faca":[0,0,156,39,56],"bastao":[0,53,214,50,49],"pe_de_cabra":[0,614,156,37,51],"lanterna":[0,751,156,55,50],"radio":[0,477,156,48,51],"detector_emf":[0,205,214,43,49],"camera":[0,53,265,51,43],"gravador":[0,835,214,57,44],"binoculo":[0,894,214,56,44],"kit_medico":[0,105,214,48,49],"mascara_filtro":[0,465,214,41,48],"vida":[0,653,156,37,51],"estamina":[0,363,156,33,52],"antidoto":[0,955,156,32,50],"soro":[0,325,214,32,49],"pilhas":[0,311,351,34,35],"fita_cassete":[0,686,265,48,40],"foto":[0,619,80,53,58],"documento":[0,315,156,46,52],"diario":[0,41,156,49,55],"mapa":[0,336,265,53,42],"chave_colecao":[0,250,214,38,49],"peca":[0,725,214,37,46],"engrenagem":[0,106,265,45,43],"cristal_anomalo":[0,442,80,46,59],"chave_simples":[0,508,214,51,47],"chave_enferrujada":[0,561,214,51,47],"chave_mestra":[0,941,80,53,56],"chave_eletronica":[0,560,80,57,58],"cartao_acesso":[0,0,214,51,49],"fusivel":[0,140,351,47,35],"valvula":[0,155,214,48,49],"disco_dados":[0,959,0,57,59],"placa_simbolica":[0,209,156,53,52],"fragmento_mapa":[0,359,214,55,48],"peca_engrenagem":[0,665,214,58,46],"runa":[0,808,156,52,50],"disco_alinhamento":[0,92,156,58,53],"lente_optica":[0,614,214,49,47],"cristal_prismatico":[0,909,156,44,50],"matriz_logica":[0,416,214,47,48]},"singles":{"inseto_fenda":[0,0,0,81,78],"deformado":[0,83,0,77,78],"planta_espinhosa":[0,162,0,82,77],"mutacao_aquatica":[0,246,0,81,76],"cepa_esporal":[0,329,0,81,76],"corvo_sombrio":[0,412,0,78,76],"sentinela_drone":[0,492,0,77,76],"sombra_rasteira":[0,571,0,77,76],"espectro_infantil":[0,650,0,77,76],"larva_eco":[0,729,0,76,76],"eco_corrompido":[0,807,0,75,76],"guardiao_bunker":[0,884,0,73,74],"anomalia_temporal":[0,0,80,70,74],"entidade_luz":[0,72,80,70,74],"enxame":[0,144,80,69,74],"cao_anomalo":[0,215,80,78,68],"colosso_ressonancia_retrato":[0,295,80,70,67],"anomalia_esferica_retrato":[0,367,80,73,59],"mutante_floresta_retrato":[0,490,80,68,58],"sombra_ressonante_retrato":[0,674,80,71,57],"eco_humanoide_retrato":[0,747,80,65,56],"vigia_projeto_retrato":[0,814,80,63,56]},"panels":{"engrenagens_integradas":{"file":"assets/production/v4/puzzle-engrenagens_integradas.png","w":159,"h":143},"alinhamento_lentes":{"file":"assets/production/v4/puzzle-alinhamento_lentes.png","w":147,"h":143},"discos_rotativos":{"file":"assets/production/v4/puzzle-discos_rotativos.png","w":144,"h":143},"painel_eletrico":{"file":"assets/production/v4/puzzle-painel_eletrico.png","w":151,"h":143},"mecanismo_alavancas":{"file":"assets/production/v4/puzzle-mecanismo_alavancas.png","w":146,"h":143},"relogio":{"file":"assets/production/v4/puzzle-relogio.png","w":144,"h":143},"mapa_fragmental":{"file":"assets/production/v4/puzzle-mapa_fragmental.png","w":141,"h":143},"cofre_mecanico":{"file":"assets/production/v4/puzzle-cofre_mecanico.png","w":143,"h":143},"painel_sequencia":{"file":"assets/production/v4/puzzle-painel_sequencia.png","w":140,"h":143},"runas":{"file":"assets/production/v4/puzzle-runas.png","w":132,"h":143}}};/*V4:END*/
 /*ENGINE:BEGIN*/
 /* Rendering engine: world in production scale (cell 128x64), camera, depth sorting, character animation, light.
    Gameplay state is untouched: everything here reads `s`, residents(), sites and walkable(). */

diff --git a/tools/asset-pipeline/v5_npcs.py b/tools/asset-pipeline/v5_npcs.py
@@ -11,9 +11,23 @@ from PIL import Image
 
 V5 = Path(__file__).resolve().parents[2] / 'assets' / 'source' / 'v5-npcs'
 
+def border_connected(m):
+    """Pixels of m 4-connected to the image border."""
+    H, W = m.shape; seen = np.zeros_like(m); st = [(y, x) for y in range(H) for x in (0, W - 1) if m[y, x]]
+    st += [(y, x) for x in range(W) for y in (0, H - 1) if m[y, x]]
+    for y, x in st: seen[y, x] = True
+    while st:
+        y, x = st.pop()
+        for yy, xx in ((y - 1, x), (y + 1, x), (y, x - 1), (y, x + 1)):
+            if 0 <= yy < H and 0 <= xx < W and m[yy, xx] and not seen[yy, xx]: seen[yy, xx] = True; st.append((yy, xx))
+    return seen
+
 def alpha_of(a):
     rgb = a[..., :3].astype(int); mx = rgb.max(-1); mn = rgb.min(-1)
-    m = (a[..., 3] > 40) & ~((mx < 38) & (mx - mn < 22))
+    dark = (mx < 38) & (mx - mn < 22)
+    # Near-black pixels are only background when they belong to a dark board touching the crop border; the dark
+    # outline, hair and trousers inside the silhouette are kept (dropping them punched holes in Helena's frames).
+    m = (a[..., 3] > 40) & ~border_connected(dark & (a[..., 3] > 40))
     # dark-red halo left by the generator's matte
     halo = (rgb[..., 0] > rgb[..., 1] + 45) & (rgb[..., 0] > rgb[..., 2] + 45) & (mx < 150) & (a[..., 3] < 250)
     return m & ~halo
